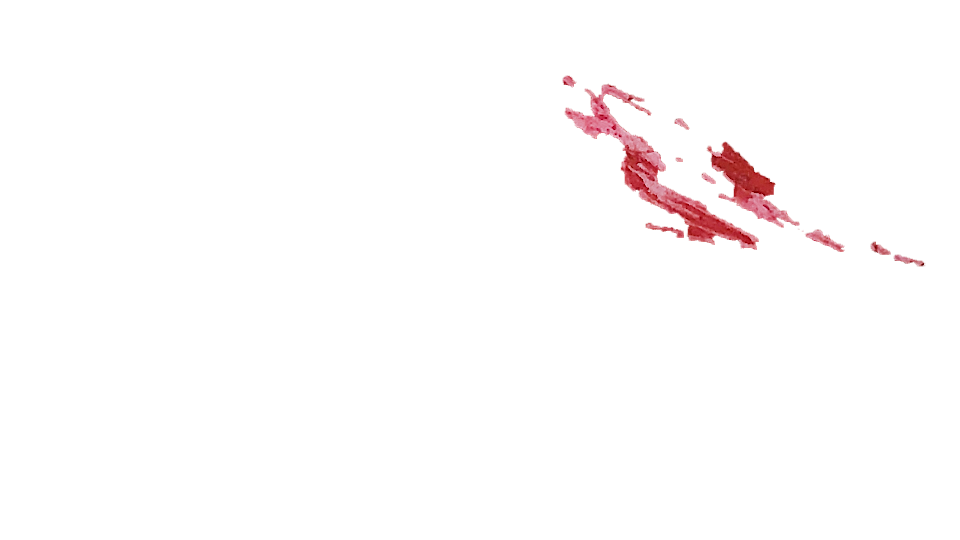
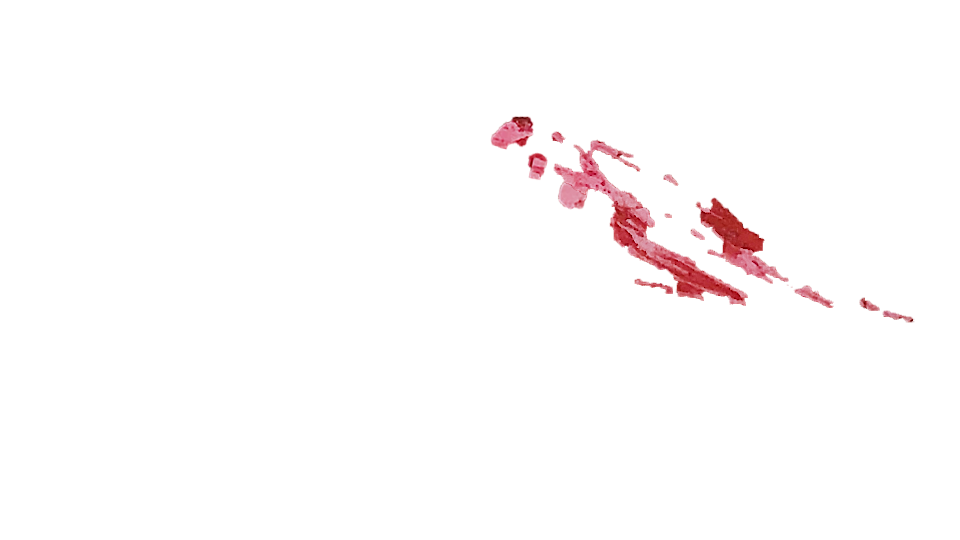
changed tainedcave

diff --git a/Game.js b/Game.js
@@ -36,7 +36,7 @@ class Game extends Phaser.Scene {
 
     this.background = this.add.image(960, 240, "background");
     this.taintedCave = this.add
-      .image(1350, 260, "taintedCave")
+      .image(1300, 190, "taintedCave")
       .setVisible(false);
 
     this.walkSound = this.sound.add("walkSound");
